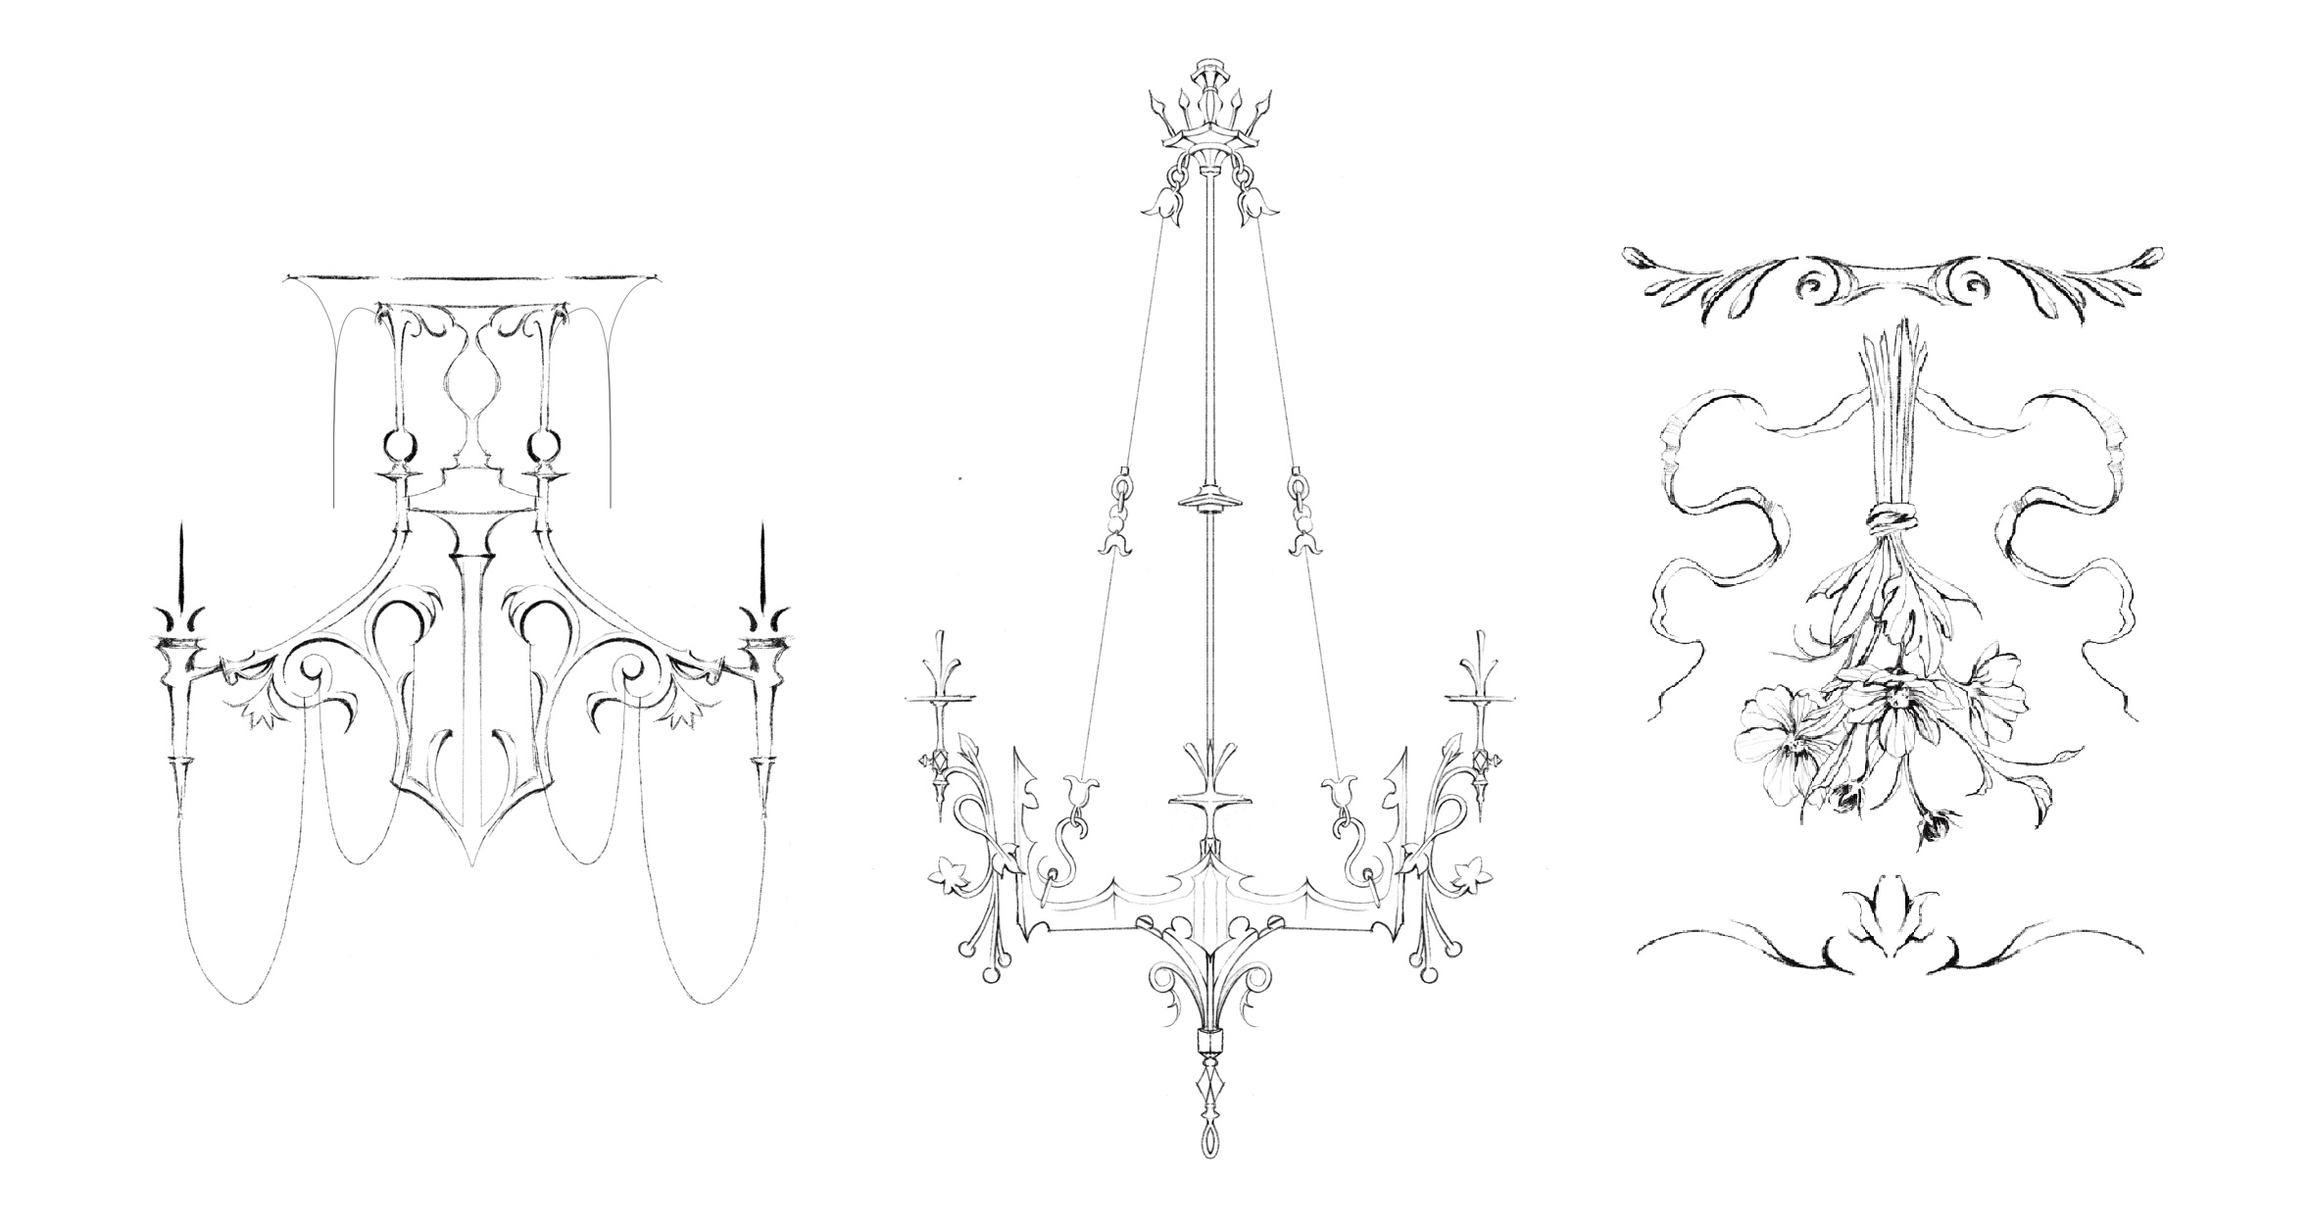
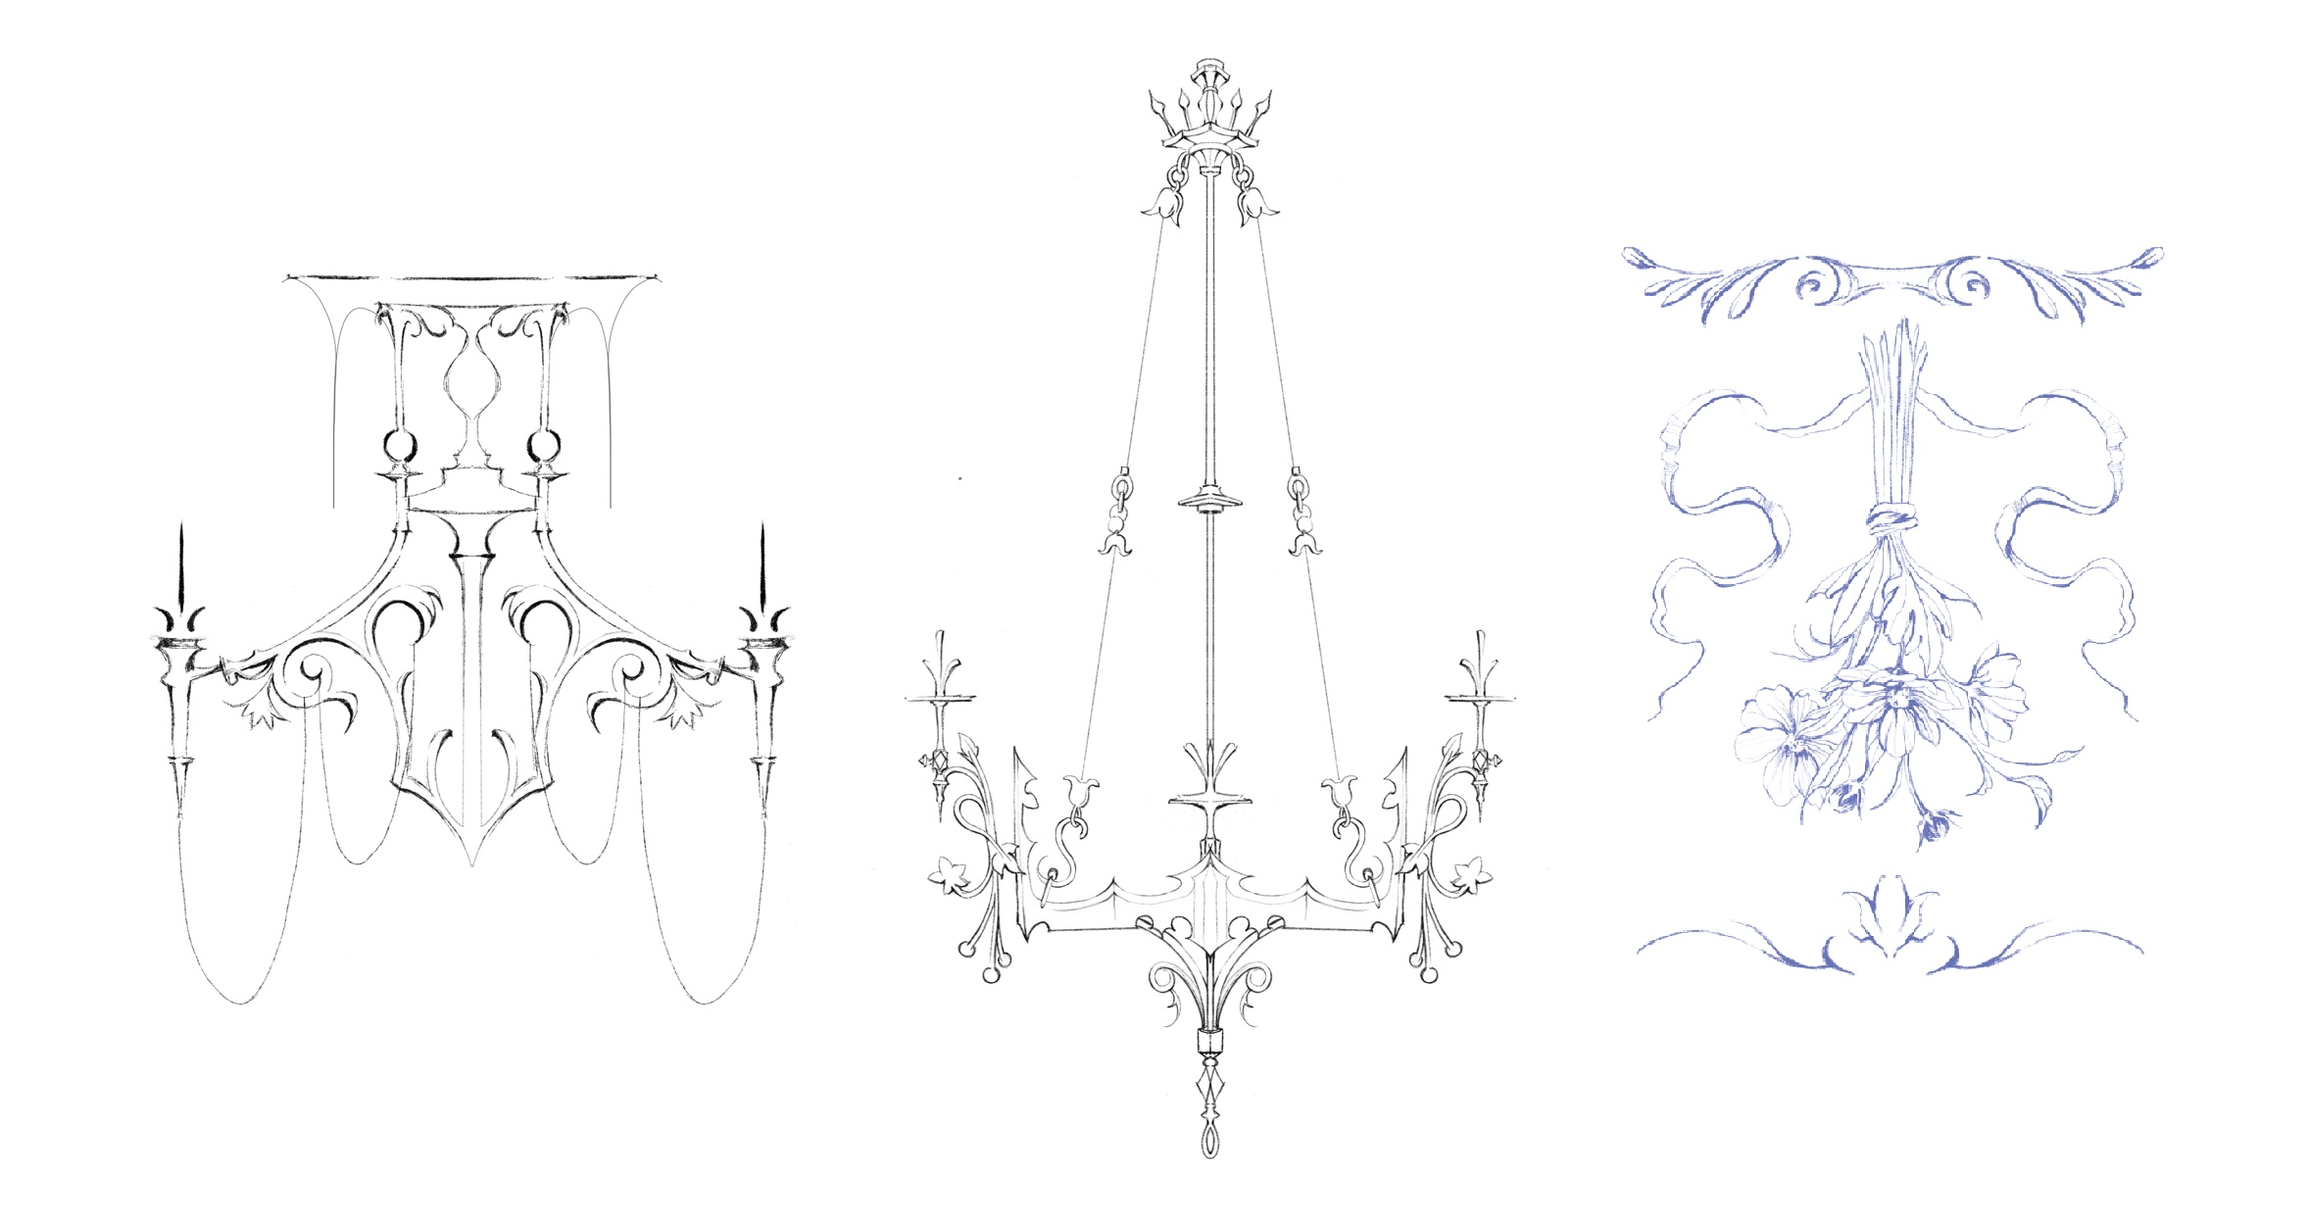
update flash

diff --git a/index.html b/index.html
@@ -11,6 +11,7 @@
 		<link rel="icon" type="image/png" href="images/icon.png" />
 		<script async src="https://analytics.eu.umami.is/script.js" data-website-id="2e1bd3b0-ee4f-42b3-86ad-528558e61016"></script>
 		<noscript><link rel="stylesheet" href="assets/css/noscript.css" /></noscript>
+		<script src="config.js"></script>
 
 	</head>
 	<body class="is-preload">
@@ -51,7 +52,11 @@
 							<article id="flash">
 								<h2 class="major" style="position: relative; left: 50%; transform: translateX(-50%);">Flash book</h2>
 								<p style="margin: 0 20% 2rem 20%; text-align: justify; text-justify: inter-word;">Afin de réserver un flash, veuillez me contacter par mail en envoyant un screenshot du dessin qui vous intéresse, si celui-ci n’est pas représenté en bleu, signifiant qu’il est réservé ou déjà réalisé. Vous pouvez indiquer une estimation de la taille que vous souhaitez, même si ces derniers ont déjà en général une taille adéquate. Enfin, précisez l’emplacement sur votre corps où vous souhaitez vous faire tatouer en faisant un joli croquis à l’aide des silhouettes de corps proposées dans l’onglet <a href="#contact" style="text-decoration: underline; text-decoration-color: black; text-underline-offset: 6px;">contacter</a>.</p>
-								<span class="image main" style="margin-bottom: -5px;"><img src="images/flash/22.JPG" alt="" /></span>
+								<span class="image main" style="margin-bottom: -5px;"><img src="images/flash/26.JPG" alt="" /></span>
+								<span class="image main" style="margin-top: -5px; margin-bottom: -5px;"><img src="images/flash/25.JPG" alt="" loading="lazy"/></span>
+								<span class="image main" style="margin-top: -5px; margin-bottom: -5px;"><img src="images/flash/24.JPG" alt="" loading="lazy"/></span>
+								<span class="image main" style="margin-top: -5px; margin-bottom: -5px;"><img src="images/flash/23.JPG" alt="" loading="lazy"/></span>
+								<span class="image main" style="margin-top: -5px; margin-bottom: -5px;"><img src="images/flash/22.JPG" alt="" loading="lazy"/></span>
 								<span class="image main" style="margin-top: -5px; margin-bottom: -5px;"><img src="images/flash/21.JPG" alt="" loading="lazy"/></span>
 								<span class="image main" style="margin-top: -5px; margin-bottom: -5px;"><img src="images/flash/20.JPG" alt="" loading="lazy"/></span>
 								<span class="image main" style="margin-top: -5px; margin-bottom: -5px;"><img src="images/flash/19.JPG" alt="" loading="lazy"/></span>
@@ -574,9 +579,71 @@
                     <li>L’emplacement souhaité sur ton corps, que tu peux illustrer en montrant directement sur les silhouettes proposées ci-dessous.</li>
                   </ul>
                 </div>
-                <form action="mailto:s100gtattoo@gmail.com" method="get">
-                  <button style="background:none; border:none; position: relative; left: 50%; transform: translateX(-50%);" type="submit">Prendre rendez-vous</button>
+                
+                <!-- Contact Form -->
+                <form id="contactForm" style="margin: 0 10% 2rem 10%;">
+                  
+                  <div style="display: flex; margin-bottom: 1rem; gap: 1rem;">
+                    <div style="flex: 1;">
+                      <label for="surname" style="display: block; margin-bottom: 0.5rem; color: #333;">Nom:</label>
+                      <input type="text" id="surname" name="surname" required style="width: 100%; padding: 0.5rem; border: 1px solid #ccc; border-radius: 4px;">
+                    </div>
+                    <div style="flex: 1;">
+                      <label for="name" style="display: block; margin-bottom: 0.5rem; color: #333;">Prénom:</label>
+                      <input type="text" id="name" name="name" required style="width: 100%; padding: 0.5rem; border: 1px solid #ccc; border-radius: 4px;">
+                    </div>
+                  </div>
+                  
+                  <div style="display: flex; margin-bottom: 1rem; gap: 1rem;">
+                  <div style="flex: 1;">
+                    <label for="size" style="display: block; margin-bottom: 0.5rem; color: #333;">Taille du tatouage:</label>
+                    <select id="size" name="size" required style="width: 100%; padding: 0.5rem; border: 1px solid #ccc; border-radius: 4px;">
+                      <option value="">--Choisir une taille--</option>
+                      <option value="XS">XS (très petit)</option>
+                      <option value="S">S (petit)</option>
+                      <option value="M">M (moyen)</option>
+                      <option value="L">L (grand)</option>
+                      <option value="XL">XL (très grand)</option>
+                    </select>
+                  </div>
+                  
+                  <div style="flex: 1;">
+                    <label for="bodyPart" style="display: block; margin-bottom: 0.5rem; color: #333;">Emplacement:</label>
+                    <select id="bodyPart" name="bodyPart" required style="width: 100%; padding: 0.5rem; border: 1px solid #ccc; border-radius: 4px;">
+                      <option value="">--Choisir un emplacement--</option>
+                      <option value="Bras">Bras</option>
+                      <option value="Avant-bras">Avant-bras</option>
+                      <option value="Épaule">Épaule</option>
+                      <option value="Dos">Dos</option>
+                      <option value="Poitrine">Poitrine</option>
+                      <option value="Jambe">Jambe</option>
+                      <option value="Mollet">Mollet</option>
+                      <option value="Cuisse">Cuisse</option>
+                      <option value="Pied">Pied</option>
+                      <option value="Main">Main</option>
+                      <option value="Cou">Cou</option>
+                      <option value="Visage">Visage</option>
+                      <option value="Autre">Autre</option>
+                    </select>
+                  </div>
+                  </div>
+                  
+                  <div style="margin-bottom: 1.5rem;">
+                    <label for="referenceImages" style="display: block; margin-bottom: 0.5rem; color: #333;">Images de référence (optionnel):</label>
+                    <input type="file" id="referenceImages" name="referenceImages" accept="image/*" multiple style="width: 100%; padding: 0.5rem; border: 1px solid #ccc; border-radius: 4px;">
+                    <small style="color: #666; font-size: 0.8rem;">Formats acceptés: JPG, PNG, GIF. Max 5MB par image. Maximum 5 images.</small>
+                  </div>
+                  
+                  <div id="uploadProgress" style="display: none; margin-bottom: 1rem;">
+                    <div style="width: 100%; background-color: #f1f1f1; border-radius: 4px;">
+                      <div id="progressBar" style="width: 0%; height: 10px; background-color: #4CAF50; border-radius: 4px;"></div>
+                    </div>
+                    <p style="font-size: 0.8rem; color: #666;">Téléchargement en cours...</p>
+                  </div>
+                  
+                  <button type="submit" style="background:none; border:none; position: relative; left: 50%; transform: translateX(-50%);">Envoyer</button>
                 </form>
+                
                 <span class="image main"><img src="images/body1.jpeg" alt="" style="width: 80%; position: relative; left: 50%; transform: translateX(-50%);"/></span>
                 <p style="margin: 0 10% 2rem 10%; text-align: justify; text-justify: inter-word;">Toutes ces informations me permettront de t’indiquer un budget approprié. Une fois une fourchette de prix partagée, je t’indiquerai mes prochaines disponibilités. Si nous nous accordons sur un rendez-vous, une caution te sera demandée afin de réserver le créneau. Cette caution sert de garant, pour nous deux, afin de confirmer que le rendez-vous est bien noté et sera assuré par les deux parties. Celle-ci est déduite du prix global du tatouage in fine. Le rendez-vous peut être annulé ou décalé sans frais jusque 48 heures avant celui-ci. Une fois la limite des 48heures passée, la caution sera conservée afin de dédommager l’annulation imprévue. Cette caution sert également de garant et de rémunération pour les projets personnels, qui implique un temps de dessin plus ou moins important qui nécessite d’être également reconnu dans le travail d’un tatoueur. C’est pourquoi je n’envoie le dessin seulement la veille du rendez-vous convenu (je réalise des exceptions lorsqu’il s’agit de votre premier tatouage). Je serai bien évidemment disponible et ouverte à modifier le design jusqu’à satisfaction complète le jour J. Le travail du dessin en face à face facilite en effet grandement la compréhension des attentes du client.</p>
 								<ul class="icons">
@@ -608,6 +675,110 @@
 			<script src="assets/js/breakpoints.min.js"></script>
 			<script src="assets/js/util.js"></script>
 			<script src="assets/js/main.js"></script>
+            <script>
+                document.getElementById('contactForm').addEventListener('submit', function(event) {
+                    event.preventDefault();
+                    
+                    // Get form values
+                    const surname = document.getElementById('surname').value;
+                    const name = document.getElementById('name').value;
+                    const size = document.getElementById('size').value;
+                    const bodyPart = document.getElementById('bodyPart').value;
+                    const referenceImages = document.getElementById('referenceImages').files;
+                    
+                    // Function to send email
+                    const sendEmail = (imageLinks = []) => {
+                        // Construct email body
+                        let emailBody = `Bonjour,\n\nJe souhaiterais prendre rendez-vous pour un tatouage.\n\nNom: ${surname}\nPrénom: ${name}\nTaille: ${size}\nEmplacement: ${bodyPart}\n`;
+                        
+                        if (imageLinks.length > 0) {
+                            emailBody += `Images de référence:\n`;
+                            imageLinks.forEach((link, index) => {
+                                emailBody += `Image ${index + 1}: ${link}\n`;
+                            });
+                        }
+                        
+                        emailBody += `\nMerci,\n${name} ${surname}`;
+                        
+                        // Create mailto link
+                        const subject = 'Demande de rendez-vous';
+                        const mailtoLink = `mailto:s100gtattoo@gmail.com?subject=${encodeURIComponent(subject)}&body=${encodeURIComponent(emailBody)}`;
+                        
+                        // Open email client
+                        window.location.href = mailtoLink;
+                    };
+                    
+                    // If there are images, upload them first
+                    if (referenceImages.length > 0) {
+                        // Check file count (max 5)
+                        if (referenceImages.length > 5) {
+                            alert("Vous ne pouvez télécharger que 5 images maximum. Veuillez sélectionner moins d'images.");
+                            return;
+                        }
+                        
+                        // Check file sizes (max 5MB each)
+                        for (let i = 0; i < referenceImages.length; i++) {
+                            if (referenceImages[i].size > 5 * 1024 * 1024) {
+                                alert(`L'image ${i + 1} est trop volumineuse. Veuillez sélectionner des images de moins de 5MB chacune.`);
+                                return;
+                            }
+                        }
+                        
+                        // Show progress bar
+                        document.getElementById('uploadProgress').style.display = 'block';
+                        
+                        // Array to store upload promises
+                        const uploadPromises = [];
+                        
+                        // Create a promise for each image upload
+                        for (let i = 0; i < referenceImages.length; i++) {
+                            const formData = new FormData();
+                            formData.append('image', referenceImages[i]);
+                            
+                            const uploadPromise = fetch('https://api.imgbb.com/1/upload?expiration=15552000&key=${API_KEY}', {
+                                method: 'POST',
+                                body: formData
+                            })
+                            .then(response => {
+                                if (!response.ok) {
+                                    throw new Error('Network response was not ok');
+                                }
+                                return response.json();
+                            })
+                            .then(data => {
+                                if (data.success) {
+                                    return data.data.url;
+                                } else {
+                                    throw new Error('Upload failed');
+                                }
+                            });
+                            
+                            uploadPromises.push(uploadPromise);
+                        }
+                        
+                        // Wait for all uploads to complete
+                        Promise.all(uploadPromises)
+                            .then(imageLinks => {
+                                // Hide progress bar
+                                document.getElementById('uploadProgress').style.display = 'none';
+                                
+                                // Send email with all image links
+                                sendEmail(imageLinks);
+                            })
+                            .catch(error => {
+                                console.error('Error:', error);
+                                // Hide progress bar
+                                document.getElementById('uploadProgress').style.display = 'none';
+                                // Send email without images
+                                alert("Erreur lors du téléchargement des images. Votre demande sera envoyée sans les images.");
+                                sendEmail();
+                            });
+                    } else {
+                        // No images, send email directly
+                        sendEmail();
+                    }
+                });
+            </script>
 
 	</body>
 </html>

diff --git a/en.html b/en.html
@@ -51,7 +51,11 @@
 							<article id="flash">
 								<h2 class="major" style="position: relative; left: 50%; transform: translateX(-50%);">Flash book</h2>
 								<p style="margin: 0 20% 2rem 20%; text-align: justify; text-justify: inter-word;">To reserve a flash, please contact me by e-mail and send a screenshot of the design you're interested in, if it is not shown in blue, meaning that it is reserved or already done. You can also give an estimate of the size you'd like, even if these are usually already the right size. Finally, specify the location on your body where you'd like to get a tattoo by making a nice sketch using the body silhouettes provided in the <a href="#contact" style="text-decoration: underline; text-decoration-color: black; text-underline-offset: 6px;">contact</a> tab.</p>
-								<span class="image main" style="margin-bottom: -5px;"><img src="images/flash/22.JPG" alt="" /></span>
+								<span class="image main" style="margin-bottom: -5px;"><img src="images/flash/26.JPG" alt="" /></span>
+								<span class="image main" style="margin-top: -5px; margin-bottom: -5px;"><img src="images/flash/25.JPG" alt="" loading="lazy"/></span>
+								<span class="image main" style="margin-top: -5px; margin-bottom: -5px;"><img src="images/flash/24.JPG" alt="" loading="lazy"/></span>
+								<span class="image main" style="margin-top: -5px; margin-bottom: -5px;"><img src="images/flash/23.JPG" alt="" loading="lazy"/></span>
+								<span class="image main" style="margin-top: -5px; margin-bottom: -5px;"><img src="images/flash/22.JPG" alt="" loading="lazy"/></span>
 								<span class="image main" style="margin-top: -5px; margin-bottom: -5px;"><img src="images/flash/21.JPG" alt="" loading="lazy"/></span>
 								<span class="image main" style="margin-top: -5px; margin-bottom: -5px;"><img src="images/flash/20.JPG" alt="" loading="lazy"/></span>
 								<span class="image main" style="margin-top: -5px; margin-bottom: -5px;"><img src="images/flash/19.JPG" alt="" loading="lazy"/></span>

diff --git a/config.js b/config.js
@@ -1,0 +1,2 @@
+// config.js
+const API_KEY = "c297804df360fdbebfbbd9f899c33aba";
